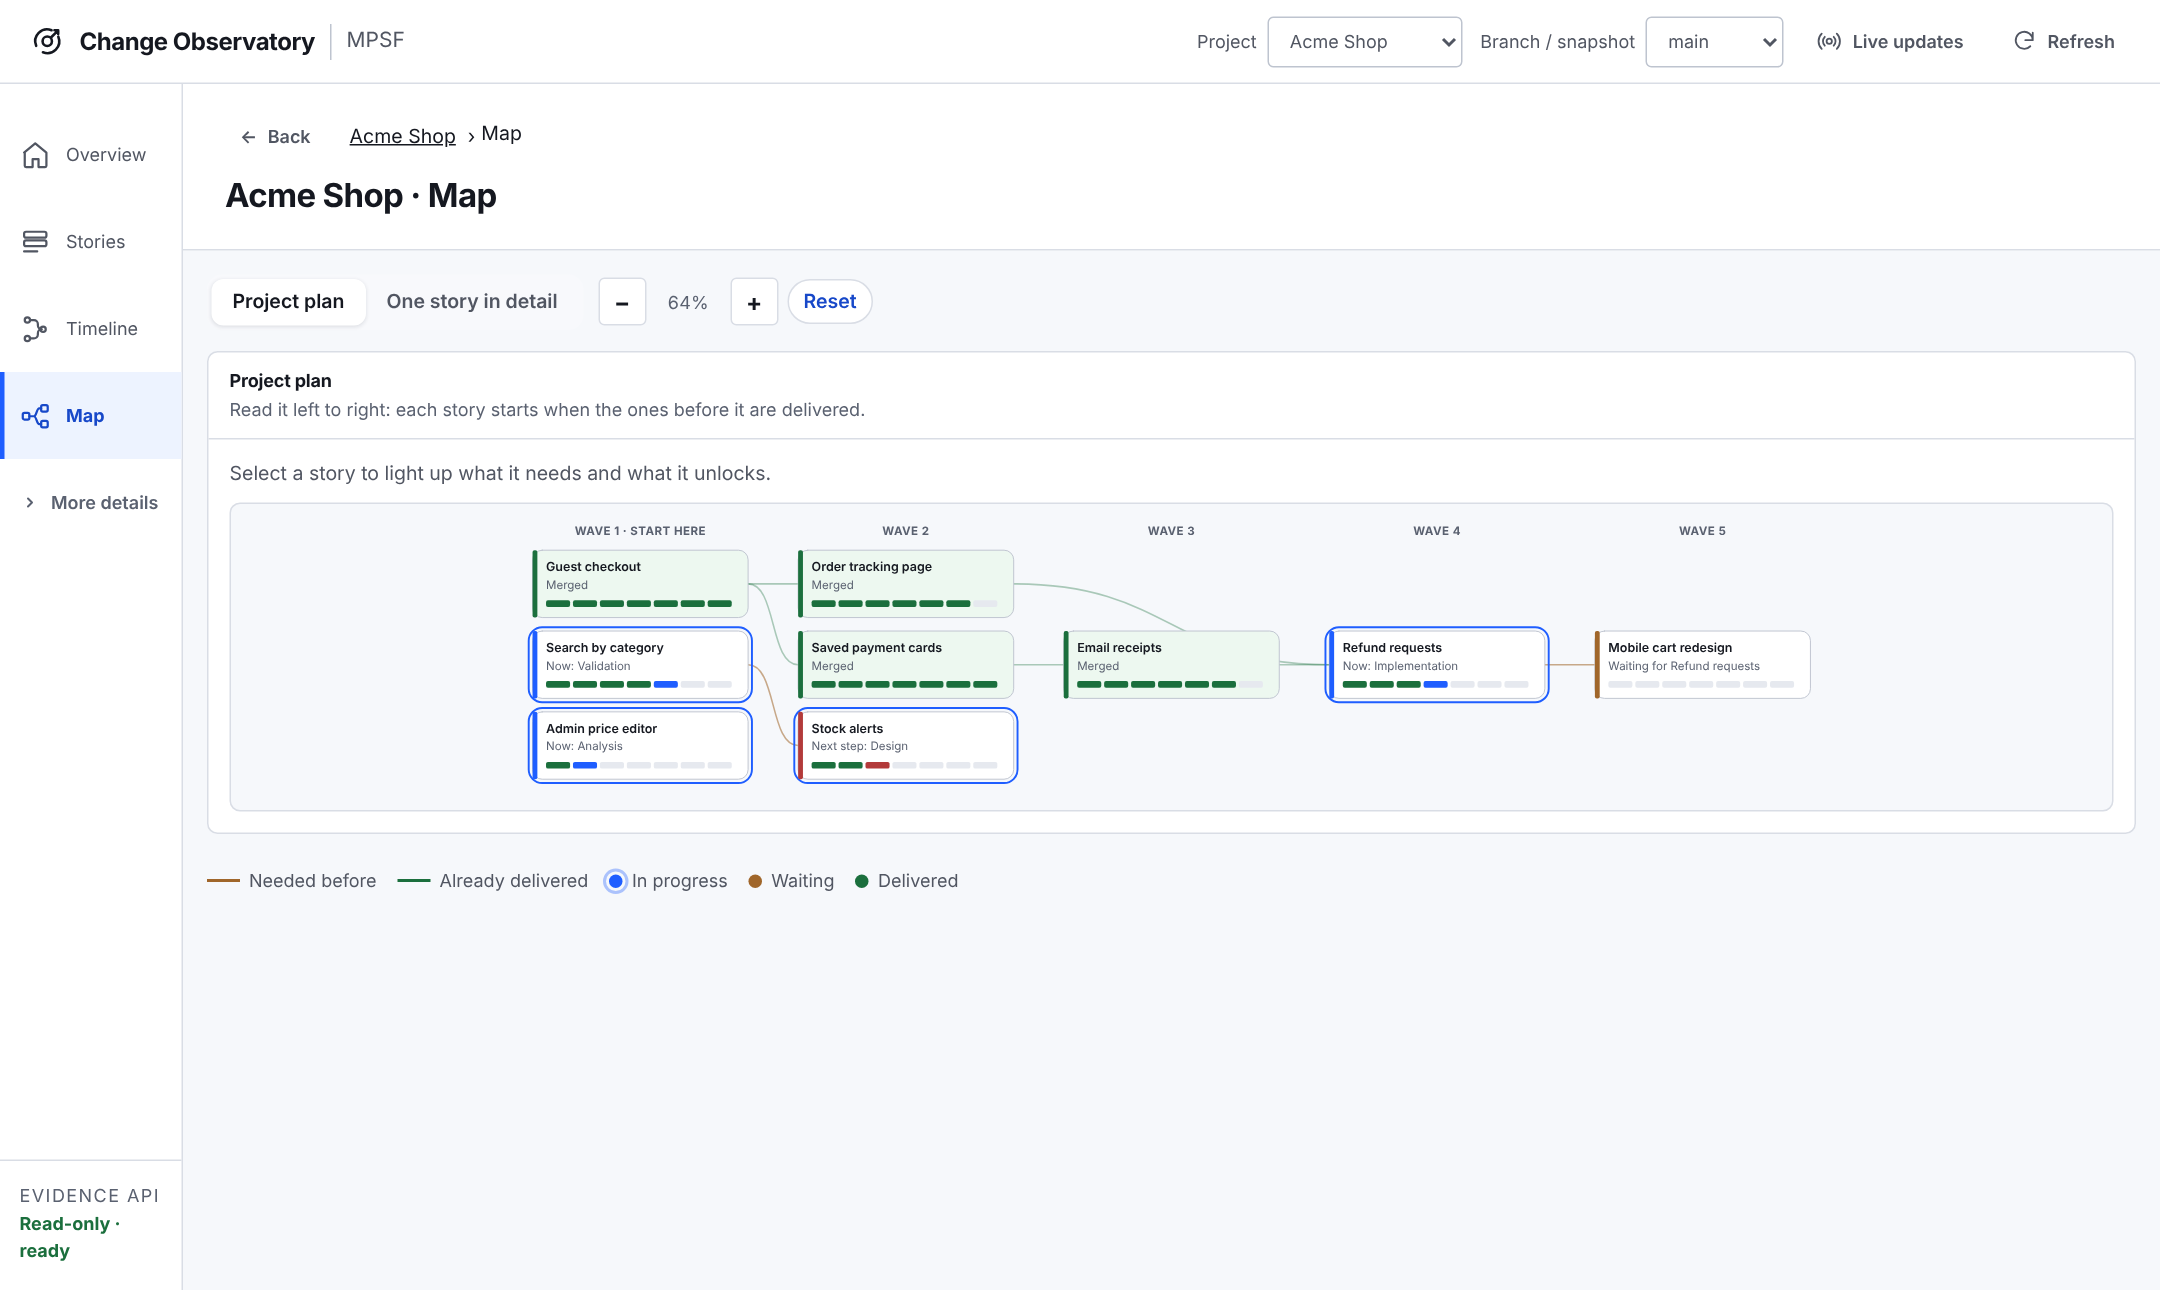
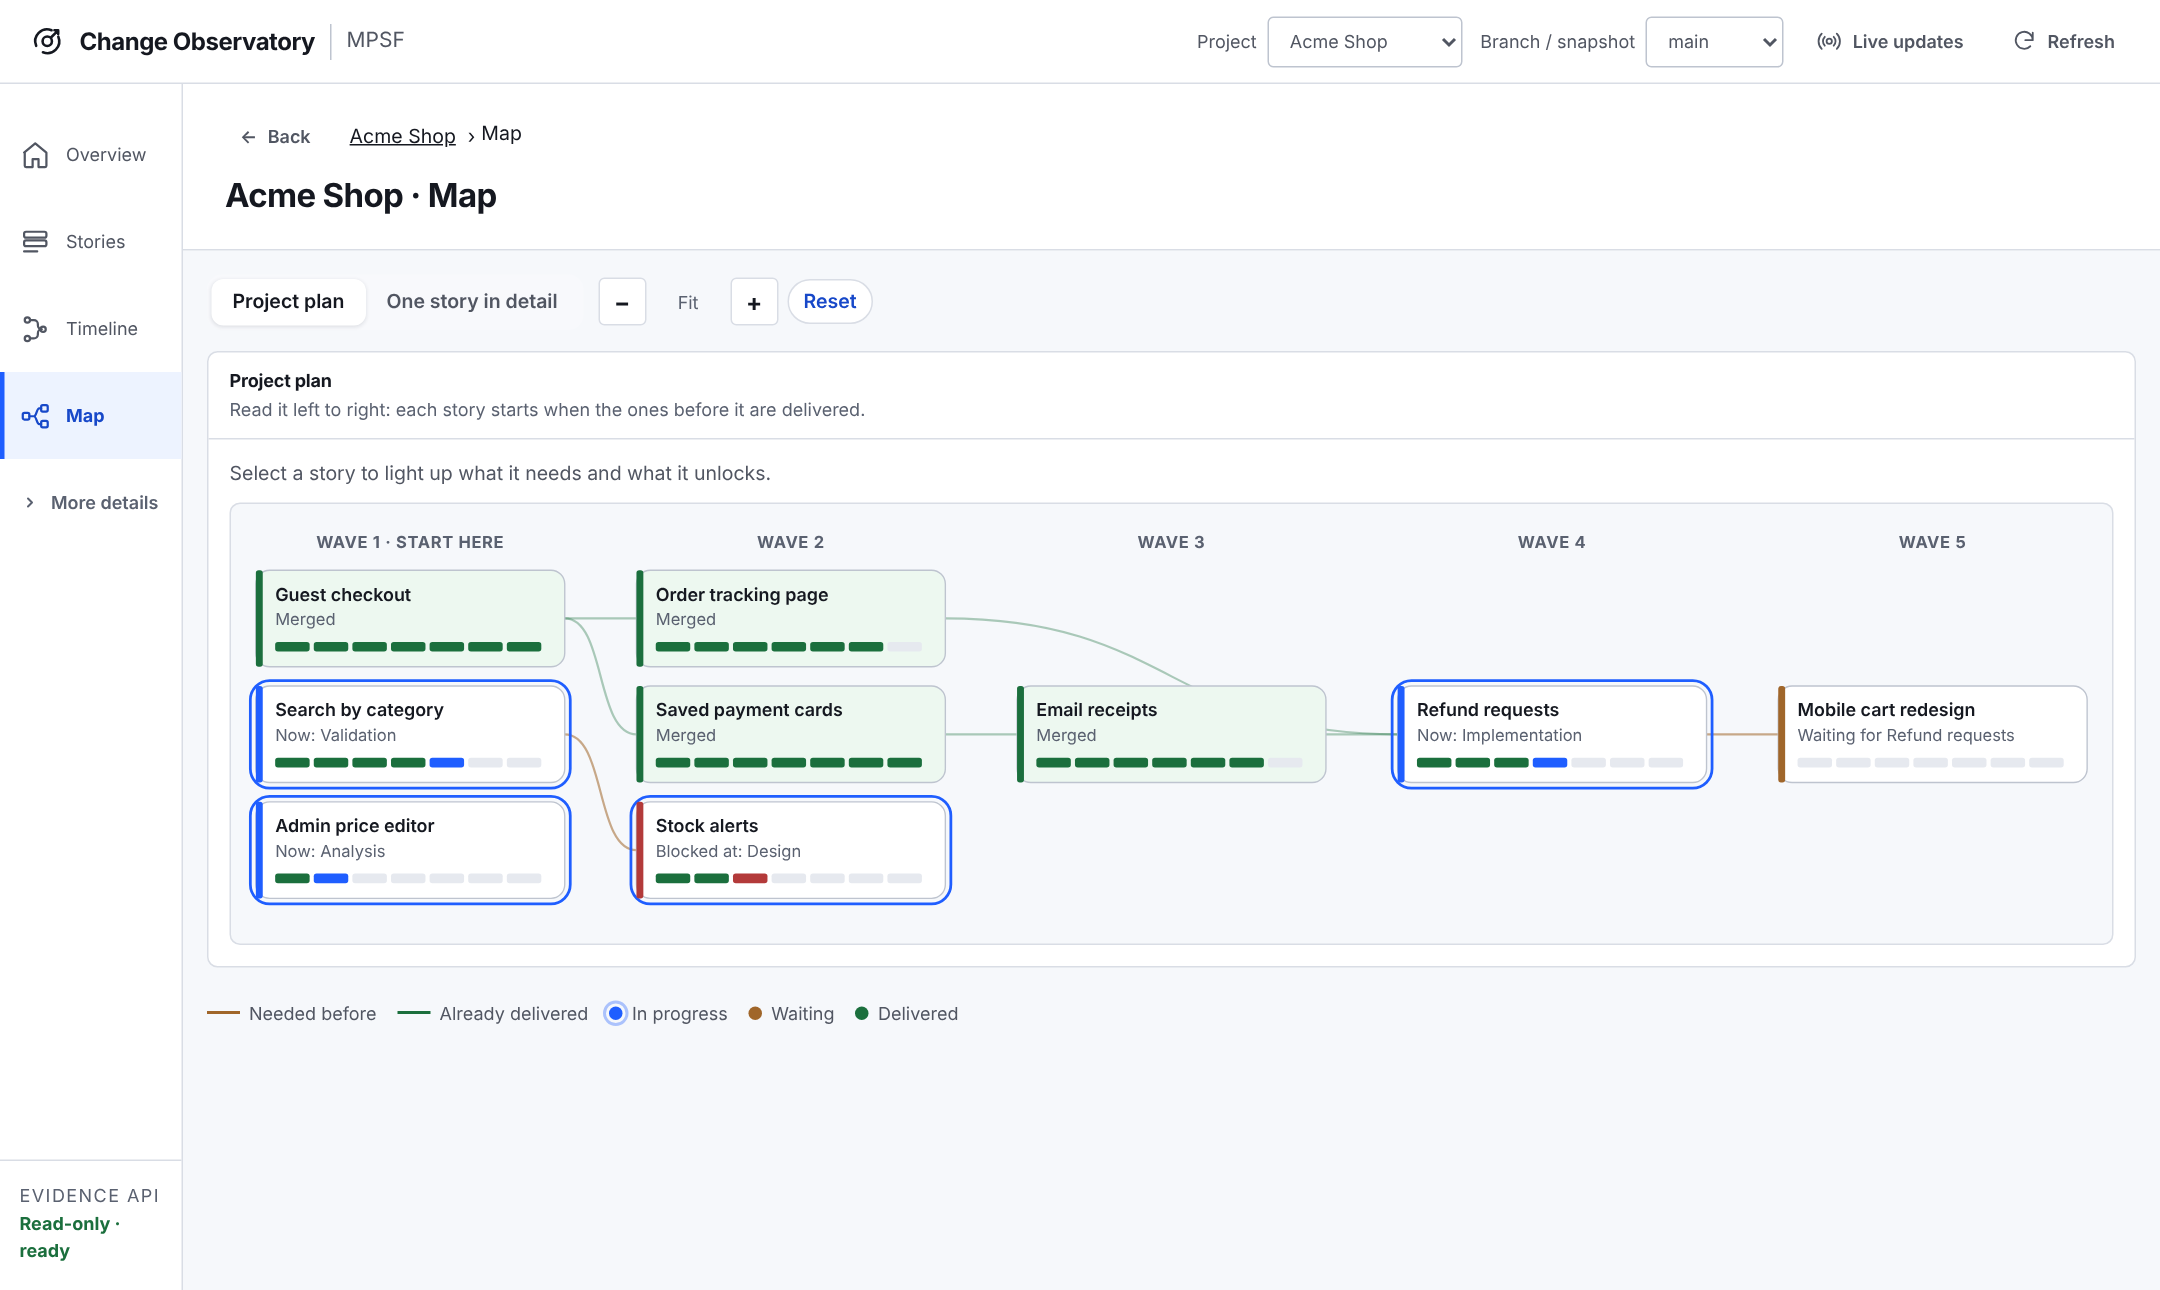
Change Observatory: project plan fits the page; blocked step named; sort select readable on phones (1.0.21)

diff --git a/ui/change-observatory/visuals.js b/ui/change-observatory/visuals.js
@@ -64,7 +64,8 @@ export function defaultExploreState() {
     mapStoryId: null,
     mapMode: null,
     planFocus: null,
-    mapZoom: 1,
+    // null fits the project plan to the page width; a number is a zoom chosen by the reader.
+    mapZoom: null,
     pages: 1,
   };
 }
@@ -606,6 +607,8 @@ function storyNextText(story, storiesById) {
   if (story.livePhase) {
     return `${t("Now")}: ${t(story.livePhase.charAt(0).toUpperCase() + story.livePhase.slice(1))}`;
   }
+  const stuck = story.phases.find((phase) => phase.status === "blocked");
+  if (stuck) return `${t("Blocked at")}: ${t(stuck.phase.charAt(0).toUpperCase() + stuck.phase.slice(1))}`;
   const next = story.phases.find((phase) => phase.status !== "complete");
   if (story.state === "delivered" || !next) return t("All steps done");
   return `${t("Next step")}: ${t(next.phase.charAt(0).toUpperCase() + next.phase.slice(1))}`;
@@ -1115,10 +1118,12 @@ function mapModeSwitch(mode) {
   })));
 }
 
+const PLAN_FIT_MIN_SCALE = 0.6;
+
 function zoomControls(zoom) {
   return node("div", { className: "zoom-controls", attrs: { role: "group", "aria-label": t("Zoom") } }, [
     node("button", { className: "icon-text-button", text: "−", attrs: { type: "button", "aria-label": t("Zoom out") }, dataset: { action: "map-zoom", zoom: "out" } }),
-    node("span", { className: "zoom-value", text: `${Math.round(zoom * 100)}%` }),
+    node("span", { className: "zoom-value", text: zoom === null ? t("Fit") : `${Math.round(zoom * 100)}%` }),
     node("button", { className: "icon-text-button", text: "+", attrs: { type: "button", "aria-label": t("Zoom in") }, dataset: { action: "map-zoom", zoom: "in" } }),
     node("button", { className: "text-button", text: "Reset", i18n: true, attrs: { type: "button" }, dataset: { action: "map-zoom", zoom: "reset" } }),
   ]);
@@ -1246,15 +1251,21 @@ function planView(state, insight) {
     }));
   }
 
-  const zoom = Math.min(2.5, Math.max(0.5, exploreState.mapZoom || 1));
+  const fit = exploreState.mapZoom === null || exploreState.mapZoom === undefined;
+  const zoom = fit ? 1 : Math.min(2.5, Math.max(0.5, exploreState.mapZoom));
   const svg = svgNode("svg", {
-    className: "lineage-map plan-map",
+    className: `lineage-map plan-map${fit ? " is-fit" : ""}`,
     viewBox: `0 0 ${width} ${height}`,
     width: Math.round(width * zoom),
     height: Math.round(height * zoom),
     role: "group",
     "aria-label": t("Project plan"),
   }, [lines, headers, nodes]);
+  if (fit && svg.style) {
+    // Shrink a wide plan to the page, never below a readable size and never above its own size.
+    svg.style.minWidth = `${Math.round(width * PLAN_FIT_MIN_SCALE)}px`;
+    svg.style.maxWidth = `${width}px`;
+  }
 
   const focused = focus ? insight.storiesById.get(focus) : null;
   const focusBar = focused
@@ -1276,7 +1287,7 @@ function planView(state, insight) {
     : node("p", { className: "plan-hint", text: "Select a story to light up what it needs and what it unlocks.", i18n: true });
 
   return node("div", { className: "view-stack" }, [
-    node("div", { className: "explore-toolbar" }, [mapModeSwitch("plan"), zoomControls(zoom)]),
+    node("div", { className: "explore-toolbar" }, [mapModeSwitch("plan"), zoomControls(fit ? null : zoom)]),
     panel(
       "Project plan",
       "Read it left to right: each story starts when the ones before it are delivered.",

diff --git a/ui/change-observatory/i18n.js b/ui/change-observatory/i18n.js
@@ -185,6 +185,7 @@ const ITALIAN = Object.freeze({
   "Verification evidence": "Prove di verifica",
   "Known errors": "Errori noti",
   Knowledge: "Conoscenza",
+  Fit: "Adatta",
   "Recurring traps, fixes and answers distilled for every computer, shown in the context pack of the stories they touch": "Trappole ricorrenti, fix e risposte distillate per tutti i computer, mostrate nel context pack delle storie che toccano",
   "No shared knowledge was distilled yet.": "Non è stata ancora distillata knowledge condivisa.",
   trap: "trappola",
@@ -505,6 +506,7 @@ const ITALIAN = Object.freeze({
   "parked stories": "storie parcheggiate",
   "Waiting for": "In attesa di",
   "Next step": "Prossimo passo",
+  "Blocked at": "Bloccata in",
   "All steps done": "Tutti i passi completati",
   "story": "storia",
   "stories": "storie",

diff --git a/ui/change-observatory/styles.css b/ui/change-observatory/styles.css
@@ -3248,6 +3248,11 @@ button.kpi-tile:hover {
   min-height: 38px;
 }
 
+/* A select keeps its label readable; on a narrow screen it moves under the search box. */
+.explore-toolbar > select {
+  flex: 0 0 auto;
+}
+
 .chip-row {
   display: flex;
   flex-wrap: wrap;
@@ -3555,6 +3560,11 @@ button.kpi-tile:hover {
 .lineage-map {
   display: block;
   min-width: 100%;
+}
+
+.lineage-map.is-fit {
+  width: 100%;
+  height: auto;
 }
 
 .map-column-label {

diff --git a/ui/change-observatory/app.js b/ui/change-observatory/app.js
@@ -1078,8 +1078,8 @@ function handleExploreAction(element) {
     case "map-zoom": {
       const steps = { in: 1.25, out: 0.8 };
       explore.mapZoom = data.zoom === "reset"
-        ? 1
-        : Math.min(2.5, Math.max(0.5, (explore.mapZoom || 1) * (steps[data.zoom] ?? 1)));
+        ? null
+        : Math.min(2.5, Math.max(0.5, (explore.mapZoom ?? 1) * (steps[data.zoom] ?? 1)));
       render();
       break;
     }

diff --git a/docs/change-observatory.md b/docs/change-observatory.md
@@ -52,7 +52,7 @@ here), and the ref mode keeps a snapshot under `.git/agentic-sdlc/observatory/`.
    | Overview | A dashboard that opens with one sentence (for example "9 of 27 stories delivered"), a progress bar split by status, and the stories moving right now. Below it: activity over time (by hour, day, or week depending on the history), check results, and the latest activity. Every tile, bar, and status opens the matching filtered view. |
    | Stories | Every piece of work as one row with its seven steps (discovery to operations) and its ID; a pulsing dot means it was worked on in the last few hours. Search, filter by status, sort, and open a row to see what it needs first, what it unlocks, its activity, and links to the map, timeline, or dossier. |
    | Timeline | Everything that was recorded, newest first and grouped by day. Search, filter by type or story, and click a bar of the activity chart to focus on one period. Selecting an entry shows its evidence. |
-   | Map | When `.sdlc/dependencies/graph.json` exists, the map opens on the **project plan**: every story in waves from left to right, with a line from each story to the work it unlocks. Selecting a story lights up its whole chain. **One story in detail** shows the lineage of one story from the request to the checks; related records are drawn for the selected box only. |
+   | Map | When `.sdlc/dependencies/graph.json` exists, the map opens on the **project plan**: every story in waves from left to right, with a line from each story to the work it unlocks. Selecting a story lights up its whole chain. The plan fits the page width; **+** and **−** zoom, **Reset** fits it again. **One story in detail** shows the lineage of one story from the request to the checks; related records are drawn for the selected box only. |
    | Story dossier | Each piece of work step by step, from the request to verification, plus the phase-by-phase lineage matrix. Old `#timeline` links open this view. |
    | Contracts | The agreed boundaries and how they changed over time. |
    | Decisions | Choices that were made, with the reasons and the alternatives that were rejected. |

diff --git a/CHANGELOG.md b/CHANGELOG.md
@@ -2,6 +2,10 @@
 
 User-visible changes of the plugin, newest first. Design notes live in [docs/plans](docs/plans); this file says what changed for you and what to do about it.
 
+## 1.0.21
+
+- Change Observatory: the project plan map fits the page width by default (never below 60% or above its natural size), so a plan with several waves is visible without scrolling; + and − zoom as before and Reset fits it again. A blocked story says "Blocked at: <step>" instead of "Next step". On a phone the sort and story selects move under the search box instead of being squeezed to an empty box. Screenshots in `docs/images/` updated. Compatibility: no record, ref or config key changed.
+
 ## 1.0.20
 
 - Docs: the README answers the four questions newcomers ask first (do I need the CLI, can the agent get around it, what it costs a session, what happens when I stop using it), with links to the details. Change Observatory: no change. Compatibility: no record, ref or config key changed.

diff --git a/README.md b/README.md
@@ -193,6 +193,7 @@ A spec-driven kit gives the agent better instructions: spec, plan and task files
 
 ## What's new
 
+- **1.0.21** — Change Observatory: project plan fits the page; mobile toolbar fix.
 - **1.0.20** — README answers the first questions newcomers ask.
 - **1.0.19** — Change Observatory: checks show Passed or Failed; Italian fixes.
 - **1.0.18** — `/mpsf:doctor` tells a new user what to do next.
